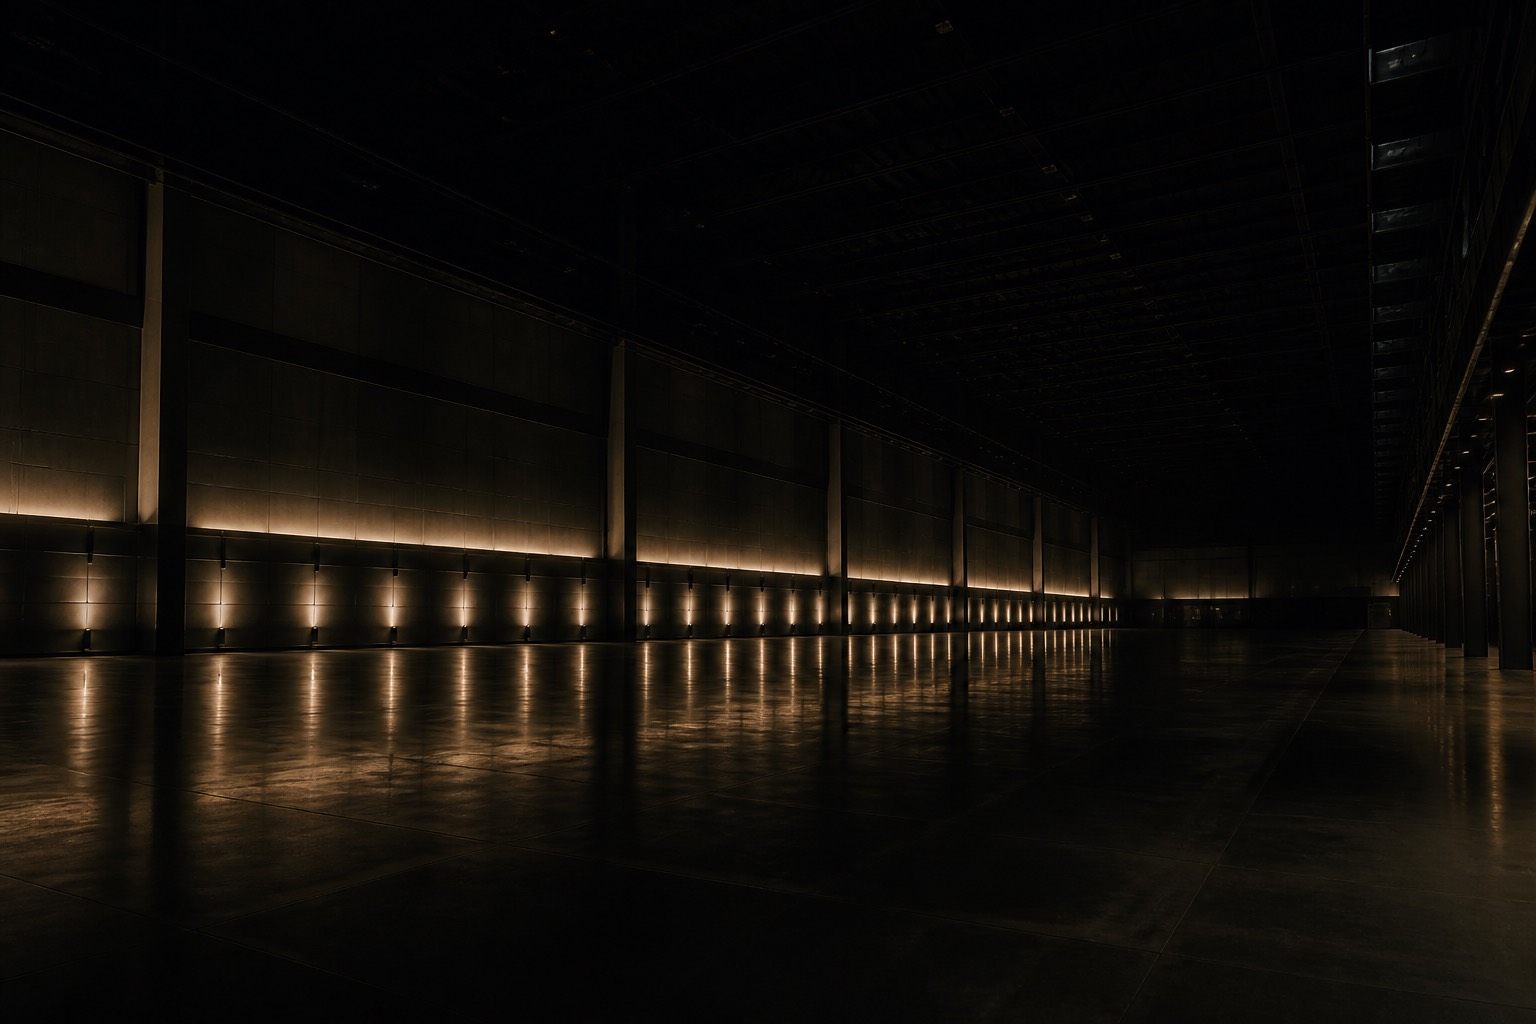
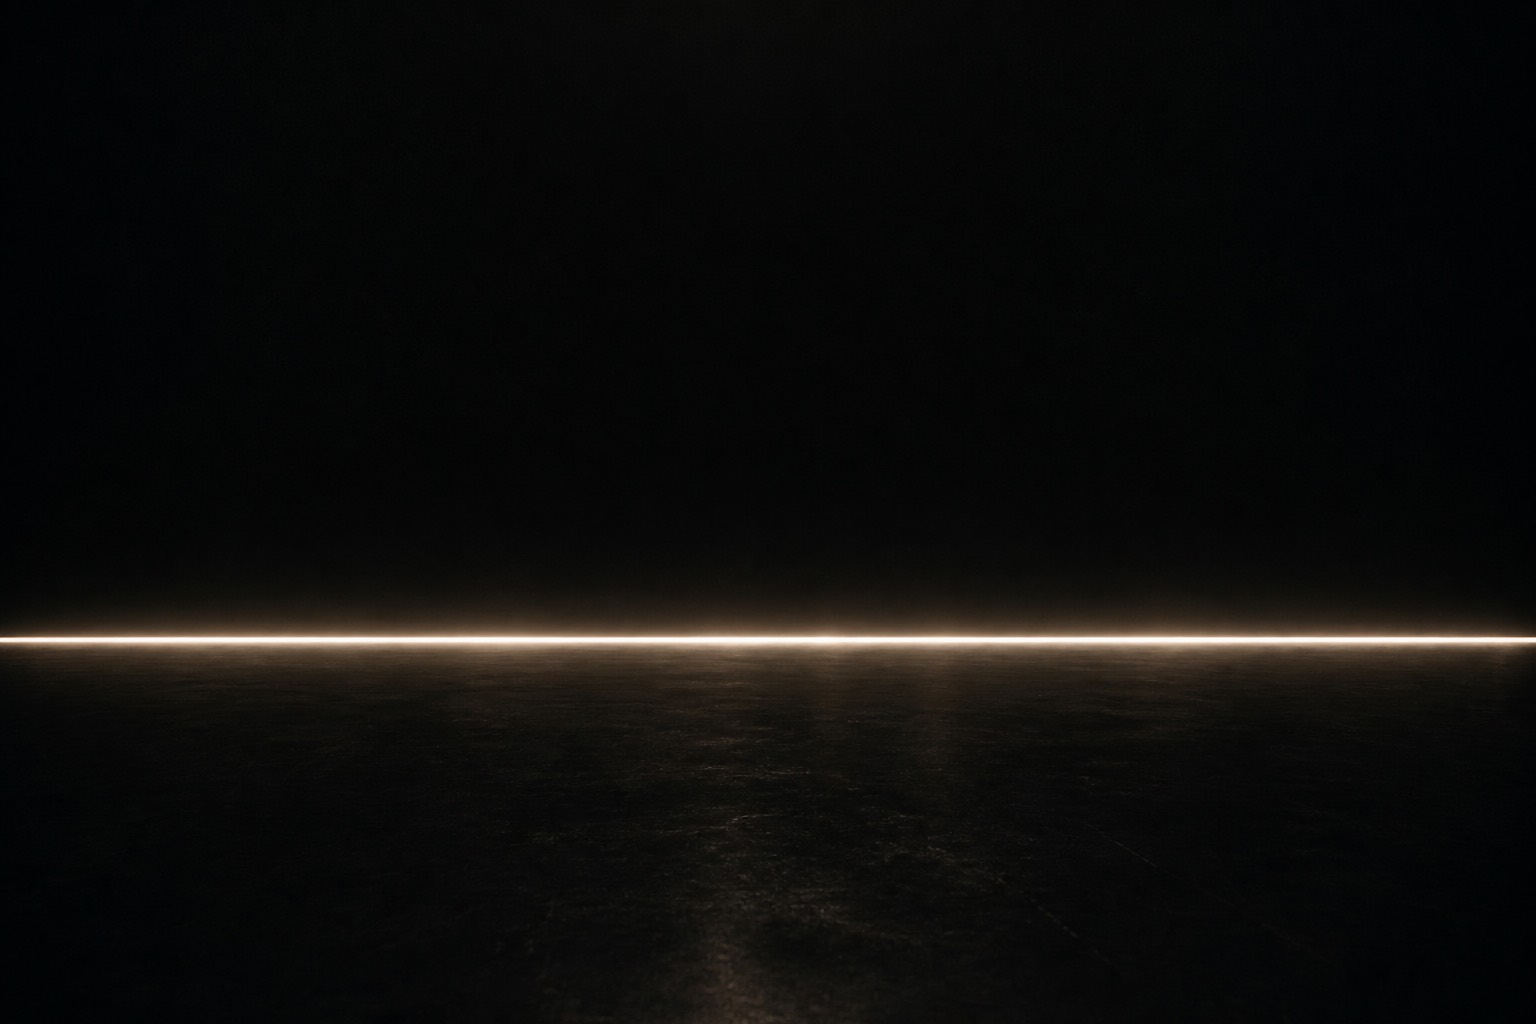
Sell the loop on the public site, not the overage.

diff --git a/provision/static/index.html b/provision/static/index.html
@@ -4,7 +4,7 @@
   <meta charset="utf-8" />
   <meta name="viewport" content="width=device-width, initial-scale=1" />
   <meta name="theme-color" content="#0c0d0c" />
-  <meta name="description" content="Automaton stamps a private chief of staff onto their Render. Tokens, keys, and overages stay theirs." />
+  <meta name="description" content="Automaton is a chief of staff that ships the next tool. You ask. The team builds. The tool lands live on your Render." />
   <title>Automaton</title>
   <link rel="preconnect" href="https://fonts.googleapis.com" />
   <link rel="preconnect" href="https://fonts.gstatic.com" crossorigin />
@@ -32,7 +32,7 @@
       <div class="hero-copy">
         <h1 class="brand">Automaton</h1>
         <p class="line">A chief of staff that ships the next tool.</p>
-        <p class="lede">We stamp a private box onto their Render. Tokens, keys, and overages stay theirs.</p>
+        <p class="lede">You ask. The team builds. The next tool lands live on your Render.</p>
         <p class="cta">
           <a href="#request">Request a box</a>
         </p>
@@ -40,13 +40,13 @@
     </section>
 
     <section class="block" id="box">
-      <h2>They get the box.</h2>
-      <p>One Render URL. Their OpenRouter key. Their git. Their tools, live on their account. We keep Automaton current. We do not sell inference.</p>
+      <h2>Your box. Your tools.</h2>
+      <p>A private Automaton on your Render. You ask once. The team builds. You get the live URL. We keep the box current.</p>
     </section>
 
     <section class="block request" id="request">
       <h2>Request a box</h2>
-      <p>Tell us the org. We stamp it onto their Render and send the link.</p>
+      <p>Name the org. We stand the box up and send the link.</p>
       <form id="inquiry">
         <label for="org">Organization</label>
         <input id="org" name="org" autocomplete="organization" required />

diff --git a/provision/static/site.css b/provision/static/site.css
@@ -74,7 +74,7 @@ body {
   width: 100%;
   height: 100%;
   object-fit: cover;
-  object-position: 72% 42%;
+  object-position: 50% 58%;
   transform: scale(1.04);
   transform-origin: 70% 45%;
 }
@@ -85,16 +85,15 @@ body {
   background:
     linear-gradient(
       90deg,
-      color-mix(in oklab, var(--void) 82%, transparent) 0%,
-      color-mix(in oklab, var(--void) 48%, transparent) 38%,
-      color-mix(in oklab, var(--void) 12%, transparent) 72%,
-      transparent 100%
+      color-mix(in oklab, var(--void) 70%, transparent) 0%,
+      color-mix(in oklab, var(--void) 28%, transparent) 42%,
+      transparent 78%
     ),
     linear-gradient(
       180deg,
-      color-mix(in oklab, var(--void) 28%, transparent) 0%,
-      transparent 28%,
-      color-mix(in oklab, var(--void) 55%, transparent) 100%
+      color-mix(in oklab, var(--void) 18%, transparent) 0%,
+      transparent 36%,
+      color-mix(in oklab, var(--void) 42%, transparent) 100%
     );
 }
 
@@ -103,9 +102,9 @@ body {
   inset: -8%;
   pointer-events: none;
   background: radial-gradient(
-    55% 40% at 78% 38%,
-    color-mix(in oklab, #c4b48a 10%, transparent),
-    transparent 70%
+    80% 18% at 50% 62%,
+    color-mix(in oklab, #e6e4dc 8%, transparent),
+    transparent 72%
   );
 }
 
@@ -271,7 +270,7 @@ footer a {
     padding: clamp(2.5rem, 7vh, 6rem) 0 4rem 6vw;
   }
 
-  .field-photo { object-position: 78% 40%; }
+  .field-photo { object-position: 50% 55%; }
 }
 
 @media (prefers-reduced-motion: no-preference) {
